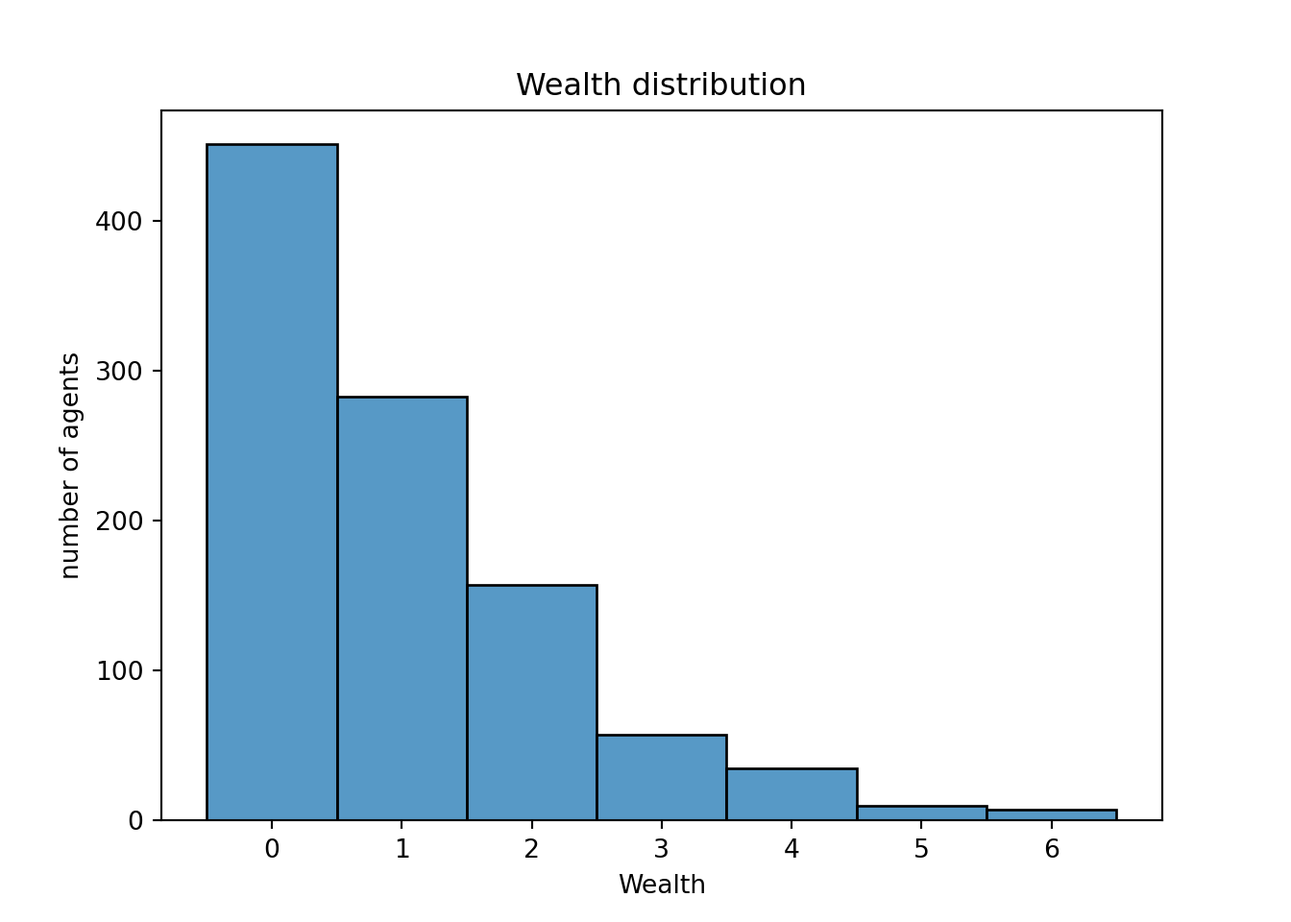
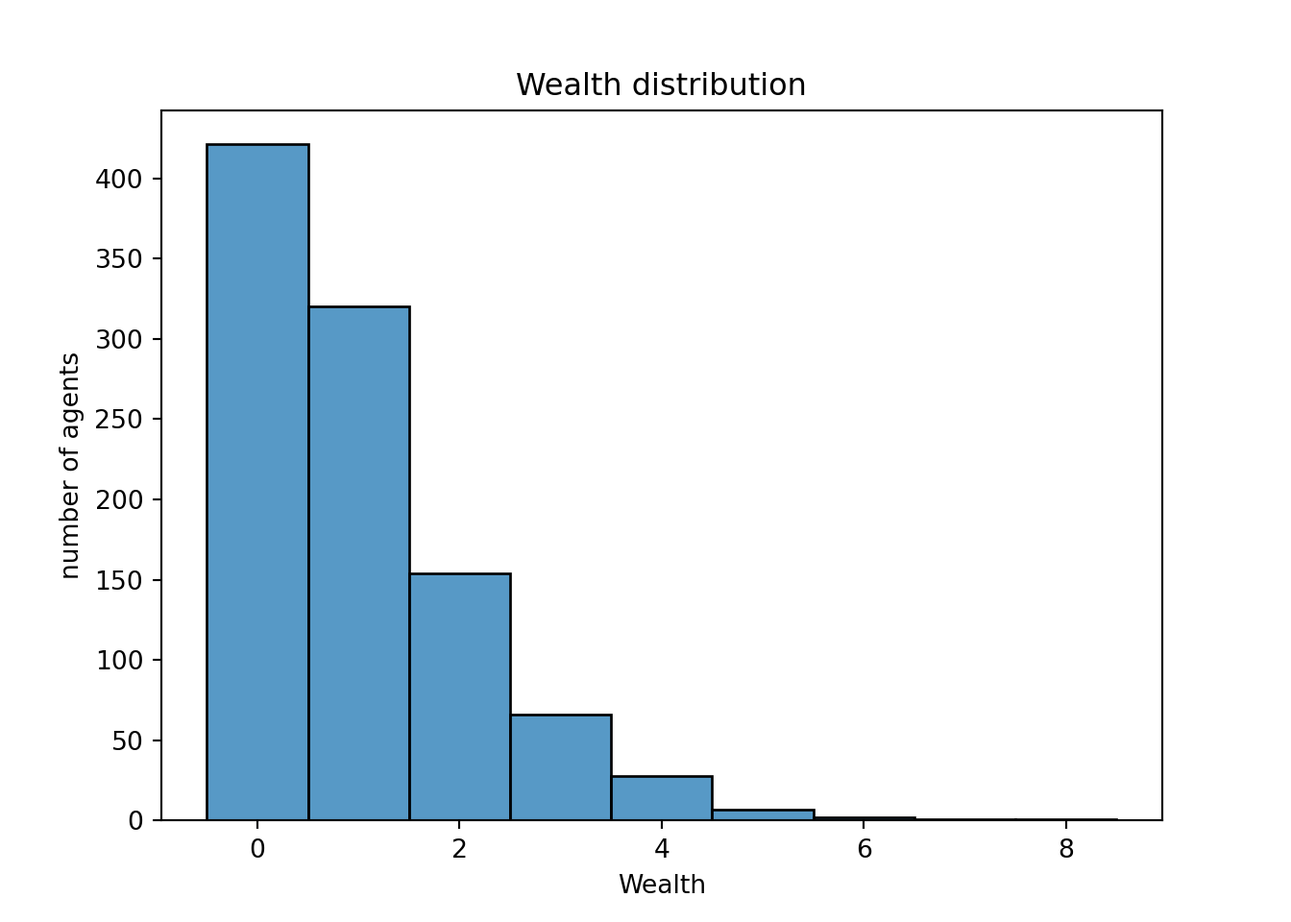
update

diff --git a/docs/index.html b/docs/index.html
@@ -195,8 +195,9 @@ pre > code.sourceCode > span > a:first-child::before { text-decoration: underlin
   <li><a href="#通过-agentset-管理-agents" id="toc-通过-agentset-管理-agents" class="nav-link" data-scroll-target="#通过-agentset-管理-agents"><span class="header-section-number">6</span> 通过 AgentSet 管理 Agents</a>
   <ul>
   <li><a href="#选择" id="toc-选择" class="nav-link" data-scroll-target="#选择"><span class="header-section-number">6.1</span> 选择</a></li>
-  <li><a href="#运行模型-3" id="toc-运行模型-3" class="nav-link" data-scroll-target="#运行模型-3"><span class="header-section-number">6.2</span> 运行模型</a></li>
+  <li><a href="#分组" id="toc-分组" class="nav-link" data-scroll-target="#分组"><span class="header-section-number">6.2</span> 分组</a></li>
   </ul></li>
+  <li><a href="#可视化-2" id="toc-可视化-2" class="nav-link" data-scroll-target="#可视化-2"><span class="header-section-number">7</span> 可视化</a></li>
   </ul>
 </nav>
 </nav>
@@ -361,15 +362,15 @@ pre > code.sourceCode > span > a:first-child::before { text-decoration: underlin
 <span id="cb7-6"><a href="#cb7-6" aria-hidden="true" tabindex="-1"></a>starter_model.step()</span></code><button title="Copy to Clipboard" class="code-copy-button"><i class="bi"></i></button></pre></div>
 <div class="cell-output cell-output-stdout">
 <pre><code>Hi, I am an agent, you can call me 2.
-Hi, I am an agent, you can call me 1.
 Hi, I am an agent, you can call me 4.
 Hi, I am an agent, you can call me 10.
 Hi, I am an agent, you can call me 8.
-Hi, I am an agent, you can call me 7.
-Hi, I am an agent, you can call me 6.
 Hi, I am an agent, you can call me 5.
-Hi, I am an agent, you can call me 3.
-Hi, I am an agent, you can call me 9.</code></pre>
+Hi, I am an agent, you can call me 7.
+Hi, I am an agent, you can call me 1.
+Hi, I am an agent, you can call me 6.
+Hi, I am an agent, you can call me 9.
+Hi, I am an agent, you can call me 3.</code></pre>
 </div>
 </div>
 <p>如果在创建对象时传入了 <code>seed</code> 参数，则每次运行模型时 <code>Agent</code> 的顺序会保持一致。</p>
@@ -424,16 +425,16 @@ Hi, I am an agent, you can call me 8.</code></pre>
 <span id="cb11-28"><a href="#cb11-28" aria-hidden="true" tabindex="-1"></a>starter_model <span class="op">=</span> MoneyModel(<span class="dv">10</span>)</span>
 <span id="cb11-29"><a href="#cb11-29" aria-hidden="true" tabindex="-1"></a>starter_model.step()</span></code><button title="Copy to Clipboard" class="code-copy-button"><i class="bi"></i></button></pre></div>
 <div class="cell-output cell-output-stdout">
-<pre><code>Hi, I am an agent 8,and I have 1 dollars.
-Hi, I am an agent 4,and I have 1 dollars.
-Hi, I am an agent 7,and I have 1 dollars.
-Hi, I am an agent 1,and I have 1 dollars.
+<pre><code>Hi, I am an agent 3,and I have 1 dollars.
 Hi, I am an agent 2,and I have 1 dollars.
-Hi, I am an agent 6,and I have 1 dollars.
-Hi, I am an agent 5,and I have 1 dollars.
-Hi, I am an agent 3,and I have 1 dollars.
+Hi, I am an agent 4,and I have 1 dollars.
+Hi, I am an agent 9,and I have 1 dollars.
 Hi, I am an agent 10,and I have 1 dollars.
-Hi, I am an agent 9,and I have 1 dollars.</code></pre>
+Hi, I am an agent 7,and I have 1 dollars.
+Hi, I am an agent 8,and I have 1 dollars.
+Hi, I am an agent 5,and I have 1 dollars.
+Hi, I am an agent 6,and I have 1 dollars.
+Hi, I am an agent 1,and I have 1 dollars.</code></pre>
 </div>
 </div>
 </section>
@@ -1219,17 +1220,21 @@ Step AgentID
 </div>
 </div>
 <div class="cell language-marker" data-display-language="true">
-<div class="sourceCode cell-code" id="cb44"><pre class="sourceCode r code-with-copy"><code class="sourceCode r"><span id="cb44-1"><a href="#cb44-1" aria-hidden="true" tabindex="-1"></a><span class="co"># 这里有一点麻烦的是，numpy会建立一种多重索引的数据结构</span></span>
-<span id="cb44-2"><a href="#cb44-2" aria-hidden="true" tabindex="-1"></a><span class="co"># 转化为 R tibble 时会丢掉所有索引</span></span>
-<span id="cb44-3"><a href="#cb44-3" aria-hidden="true" tabindex="-1"></a><span class="co"># 但直接在 R 中 call </span></span>
-<span id="cb44-4"><a href="#cb44-4" aria-hidden="true" tabindex="-1"></a><span class="co"># py$model$datacollector$get_agent_vars_dataframe()$reset_index()</span></span>
-<span id="cb44-5"><a href="#cb44-5" aria-hidden="true" tabindex="-1"></a><span class="co"># 会出现问题，因此要不在上面的 python 环境中先转换索引</span></span>
-<span id="cb44-6"><a href="#cb44-6" aria-hidden="true" tabindex="-1"></a><span class="co"># 或者如下操作</span></span>
-<span id="cb44-7"><a href="#cb44-7" aria-hidden="true" tabindex="-1"></a>agent_wealth <span class="ot">&lt;-</span> <span class="fu">py_eval</span>(</span>
-<span id="cb44-8"><a href="#cb44-8" aria-hidden="true" tabindex="-1"></a>  <span class="st">"model.datacollector.get_agent_vars_dataframe().reset_index()"</span></span>
-<span id="cb44-9"><a href="#cb44-9" aria-hidden="true" tabindex="-1"></a>)</span>
-<span id="cb44-10"><a href="#cb44-10" aria-hidden="true" tabindex="-1"></a></span>
-<span id="cb44-11"><a href="#cb44-11" aria-hidden="true" tabindex="-1"></a><span class="fu">head</span>(agent_wealth)</span></code><button title="Copy to Clipboard" class="code-copy-button"><i class="bi"></i></button></pre></div>
+<div class="sourceCode cell-code" id="cb44"><pre class="sourceCode r code-with-copy"><code class="sourceCode r"><span id="cb44-1"><a href="#cb44-1" aria-hidden="true" tabindex="-1"></a>model <span class="ot">=</span> py<span class="sc">$</span><span class="fu">MoneyModel</span>(<span class="dv">100</span>L, <span class="dv">10</span>L, <span class="dv">10</span>L, <span class="dv">1234</span>L)</span>
+<span id="cb44-2"><a href="#cb44-2" aria-hidden="true" tabindex="-1"></a><span class="fu">walk</span>(<span class="dv">1</span><span class="sc">:</span><span class="dv">100</span>L, <span class="sc">~</span>model<span class="sc">$</span><span class="fu">step</span>())</span>
+<span id="cb44-3"><a href="#cb44-3" aria-hidden="true" tabindex="-1"></a></span>
+<span id="cb44-4"><a href="#cb44-4" aria-hidden="true" tabindex="-1"></a><span class="co"># 这里有一点麻烦的是，numpy会建立一种多重索引的数据结构</span></span>
+<span id="cb44-5"><a href="#cb44-5" aria-hidden="true" tabindex="-1"></a><span class="co"># 转化为 R tibble 时会丢掉所有索引</span></span>
+<span id="cb44-6"><a href="#cb44-6" aria-hidden="true" tabindex="-1"></a><span class="co"># 但直接在 R 中 call </span></span>
+<span id="cb44-7"><a href="#cb44-7" aria-hidden="true" tabindex="-1"></a><span class="co"># py$model$datacollector$get_agent_vars_dataframe()$reset_index()</span></span>
+<span id="cb44-8"><a href="#cb44-8" aria-hidden="true" tabindex="-1"></a><span class="co"># 会出现问题，因此在 R 中进行了一次转换，!!!目前 reticulate 还没有提供更好的解决方法</span></span>
+<span id="cb44-9"><a href="#cb44-9" aria-hidden="true" tabindex="-1"></a>agent_wealth <span class="ot">&lt;-</span> model<span class="sc">$</span>datacollector<span class="sc">$</span><span class="fu">get_agent_vars_dataframe</span>() <span class="sc">%&gt;%</span> </span>
+<span id="cb44-10"><a href="#cb44-10" aria-hidden="true" tabindex="-1"></a>  <span class="fu">bind_cols</span>(</span>
+<span id="cb44-11"><a href="#cb44-11" aria-hidden="true" tabindex="-1"></a>  <span class="fu">attributes</span>(.)<span class="sc">$</span>pandas.index<span class="sc">$</span><span class="fu">to_frame</span>() <span class="sc">%&gt;%</span> <span class="fu">py_to_r</span>(),</span>
+<span id="cb44-12"><a href="#cb44-12" aria-hidden="true" tabindex="-1"></a>  .</span>
+<span id="cb44-13"><a href="#cb44-13" aria-hidden="true" tabindex="-1"></a>)</span>
+<span id="cb44-14"><a href="#cb44-14" aria-hidden="true" tabindex="-1"></a></span>
+<span id="cb44-15"><a href="#cb44-15" aria-hidden="true" tabindex="-1"></a><span class="fu">head</span>(agent_wealth)</span></code><button title="Copy to Clipboard" class="code-copy-button"><i class="bi"></i></button></pre></div>
 <div class="cell-output cell-output-stdout">
 <pre><code>  Step AgentID Wealth
 1    1       1      1
@@ -1239,19 +1244,17 @@ Step AgentID
 5    1       5      1
 6    1       6      1</code></pre>
 </div>
-<div class="sourceCode cell-code" id="cb46"><pre class="sourceCode r code-with-copy"><code class="sourceCode r"><span id="cb46-1"><a href="#cb46-1" aria-hidden="true" tabindex="-1"></a>last_step <span class="ot">=</span> agent_wealth<span class="sc">$</span>Step <span class="sc">%&gt;%</span> <span class="fu">max</span>()</span>
-<span id="cb46-2"><a href="#cb46-2" aria-hidden="true" tabindex="-1"></a>end_wealth <span class="ot">=</span> agent_wealth <span class="sc">%&gt;%</span> </span>
-<span id="cb46-3"><a href="#cb46-3" aria-hidden="true" tabindex="-1"></a>  <span class="fu">filter</span>(Step <span class="sc">==</span> last_step) <span class="sc">%&gt;%</span> </span>
-<span id="cb46-4"><a href="#cb46-4" aria-hidden="true" tabindex="-1"></a>  <span class="fu">select</span>(Wealth)</span>
-<span id="cb46-5"><a href="#cb46-5" aria-hidden="true" tabindex="-1"></a></span>
-<span id="cb46-6"><a href="#cb46-6" aria-hidden="true" tabindex="-1"></a><span class="fu">ggplot</span>()<span class="sc">+</span></span>
-<span id="cb46-7"><a href="#cb46-7" aria-hidden="true" tabindex="-1"></a>  <span class="fu">geom_histogram</span>(<span class="at">data =</span> end_wealth, <span class="fu">aes</span>(Wealth), </span>
-<span id="cb46-8"><a href="#cb46-8" aria-hidden="true" tabindex="-1"></a>               <span class="at">binwidth =</span> <span class="dv">1</span>, </span>
-<span id="cb46-9"><a href="#cb46-9" aria-hidden="true" tabindex="-1"></a>               <span class="at">color =</span> <span class="st">"black"</span>, <span class="at">fill=</span><span class="st">"steelblue"</span>)<span class="sc">+</span></span>
-<span id="cb46-10"><a href="#cb46-10" aria-hidden="true" tabindex="-1"></a>  <span class="fu">ggtitle</span>(<span class="st">"Distribution of wealth at the end of simulation"</span>)<span class="sc">+</span></span>
-<span id="cb46-11"><a href="#cb46-11" aria-hidden="true" tabindex="-1"></a>  <span class="fu">xlab</span>(<span class="st">"Wealth"</span>)<span class="sc">+</span></span>
-<span id="cb46-12"><a href="#cb46-12" aria-hidden="true" tabindex="-1"></a>  <span class="fu">ylab</span>(<span class="st">"Number of agents"</span>)<span class="sc">+</span></span>
-<span id="cb46-13"><a href="#cb46-13" aria-hidden="true" tabindex="-1"></a>  <span class="fu">theme_bw</span>()</span></code><button title="Copy to Clipboard" class="code-copy-button"><i class="bi"></i></button></pre></div>
+<div class="sourceCode cell-code" id="cb46"><pre class="sourceCode r code-with-copy"><code class="sourceCode r"><span id="cb46-1"><a href="#cb46-1" aria-hidden="true" tabindex="-1"></a>end_wealth <span class="ot">=</span> agent_wealth <span class="sc">%&gt;%</span> </span>
+<span id="cb46-2"><a href="#cb46-2" aria-hidden="true" tabindex="-1"></a>  <span class="fu">filter</span>(Step <span class="sc">==</span> <span class="fu">max</span>(Step))</span>
+<span id="cb46-3"><a href="#cb46-3" aria-hidden="true" tabindex="-1"></a></span>
+<span id="cb46-4"><a href="#cb46-4" aria-hidden="true" tabindex="-1"></a><span class="fu">ggplot</span>()<span class="sc">+</span></span>
+<span id="cb46-5"><a href="#cb46-5" aria-hidden="true" tabindex="-1"></a>  <span class="fu">geom_histogram</span>(<span class="at">data =</span> end_wealth, <span class="fu">aes</span>(Wealth), </span>
+<span id="cb46-6"><a href="#cb46-6" aria-hidden="true" tabindex="-1"></a>               <span class="at">binwidth =</span> <span class="dv">1</span>, </span>
+<span id="cb46-7"><a href="#cb46-7" aria-hidden="true" tabindex="-1"></a>               <span class="at">color =</span> <span class="st">"black"</span>, <span class="at">fill=</span><span class="st">"steelblue"</span>)<span class="sc">+</span></span>
+<span id="cb46-8"><a href="#cb46-8" aria-hidden="true" tabindex="-1"></a>  <span class="fu">ggtitle</span>(<span class="st">"Distribution of wealth at the end of simulation"</span>)<span class="sc">+</span></span>
+<span id="cb46-9"><a href="#cb46-9" aria-hidden="true" tabindex="-1"></a>  <span class="fu">xlab</span>(<span class="st">"Wealth"</span>)<span class="sc">+</span></span>
+<span id="cb46-10"><a href="#cb46-10" aria-hidden="true" tabindex="-1"></a>  <span class="fu">ylab</span>(<span class="st">"Number of agents"</span>)<span class="sc">+</span></span>
+<span id="cb46-11"><a href="#cb46-11" aria-hidden="true" tabindex="-1"></a>  <span class="fu">theme_bw</span>()</span></code><button title="Copy to Clipboard" class="code-copy-button"><i class="bi"></i></button></pre></div>
 <div class="cell-output-display">
 <div>
 <figure class="figure">
@@ -1399,23 +1402,24 @@ Step AgentID
 <span id="cb51-50"><a href="#cb51-50" aria-hidden="true" tabindex="-1"></a>        <span class="cf">else</span>:</span>
 <span id="cb51-51"><a href="#cb51-51" aria-hidden="true" tabindex="-1"></a>            poor_agents.shuffle_do(<span class="st">"give_money"</span>, poor_agents)</span></code><button title="Copy to Clipboard" class="code-copy-button"><i class="bi"></i></button></pre></div>
 </div>
-</section>
-<section id="运行模型-3" class="level2" data-number="6.2">
-<h2 data-number="6.2" class="anchored" data-anchor-id="运行模型-3"><span class="header-section-number">6.2</span> 运行模型</h2>
 <div class="cell language-marker" data-display-language="true">
 <div class="sourceCode cell-code" id="cb52"><pre class="sourceCode r code-with-copy"><code class="sourceCode r"><span id="cb52-1"><a href="#cb52-1" aria-hidden="true" tabindex="-1"></a>model <span class="ot">=</span> py<span class="sc">$</span><span class="fu">MoneyModel</span>(<span class="dv">100</span>L)</span>
 <span id="cb52-2"><a href="#cb52-2" aria-hidden="true" tabindex="-1"></a><span class="fu">walk</span>(<span class="dv">1</span><span class="sc">:</span><span class="dv">20</span>L, <span class="sc">~</span>model<span class="sc">$</span><span class="fu">step</span>())</span>
 <span id="cb52-3"><a href="#cb52-3" aria-hidden="true" tabindex="-1"></a></span>
-<span id="cb52-4"><a href="#cb52-4" aria-hidden="true" tabindex="-1"></a>agent_wealth <span class="ot">=</span> <span class="fu">py_eval</span>(<span class="st">"model.datacollector.get_agent_vars_dataframe().reset_index()"</span>)</span>
-<span id="cb52-5"><a href="#cb52-5" aria-hidden="true" tabindex="-1"></a></span>
-<span id="cb52-6"><a href="#cb52-6" aria-hidden="true" tabindex="-1"></a>agent_wealth  <span class="sc">%&gt;%</span></span>
-<span id="cb52-7"><a href="#cb52-7" aria-hidden="true" tabindex="-1"></a>  <span class="fu">ggplot</span>() <span class="sc">+</span></span>
-<span id="cb52-8"><a href="#cb52-8" aria-hidden="true" tabindex="-1"></a>  <span class="fu">geom_histogram</span>(<span class="fu">aes</span>(Wealth), <span class="at">fill =</span> <span class="st">"steelblue"</span>,<span class="at">binwidth =</span> <span class="dv">1</span>, <span class="at">color =</span> <span class="st">"black"</span>) <span class="sc">+</span></span>
-<span id="cb52-9"><a href="#cb52-9" aria-hidden="true" tabindex="-1"></a>  <span class="fu">labs</span>(</span>
-<span id="cb52-10"><a href="#cb52-10" aria-hidden="true" tabindex="-1"></a>    <span class="at">title =</span> <span class="st">"Wealth distribution"</span>,</span>
-<span id="cb52-11"><a href="#cb52-11" aria-hidden="true" tabindex="-1"></a>    <span class="at">x     =</span> <span class="st">"Wealth"</span>,</span>
-<span id="cb52-12"><a href="#cb52-12" aria-hidden="true" tabindex="-1"></a>    <span class="at">y     =</span> <span class="st">"Number of agents"</span></span>
-<span id="cb52-13"><a href="#cb52-13" aria-hidden="true" tabindex="-1"></a>  ) <span class="sc">+</span> <span class="fu">theme_bw</span>()</span></code><button title="Copy to Clipboard" class="code-copy-button"><i class="bi"></i></button></pre></div>
+<span id="cb52-4"><a href="#cb52-4" aria-hidden="true" tabindex="-1"></a>agent_wealth <span class="ot">&lt;-</span> model<span class="sc">$</span>datacollector<span class="sc">$</span><span class="fu">get_agent_vars_dataframe</span>() <span class="sc">%&gt;%</span> </span>
+<span id="cb52-5"><a href="#cb52-5" aria-hidden="true" tabindex="-1"></a>  <span class="fu">bind_cols</span>(</span>
+<span id="cb52-6"><a href="#cb52-6" aria-hidden="true" tabindex="-1"></a>  <span class="fu">attributes</span>(.)<span class="sc">$</span>pandas.index<span class="sc">$</span><span class="fu">to_frame</span>() <span class="sc">%&gt;%</span> <span class="fu">py_to_r</span>(),</span>
+<span id="cb52-7"><a href="#cb52-7" aria-hidden="true" tabindex="-1"></a>  .</span>
+<span id="cb52-8"><a href="#cb52-8" aria-hidden="true" tabindex="-1"></a>)</span>
+<span id="cb52-9"><a href="#cb52-9" aria-hidden="true" tabindex="-1"></a></span>
+<span id="cb52-10"><a href="#cb52-10" aria-hidden="true" tabindex="-1"></a>agent_wealth  <span class="sc">%&gt;%</span></span>
+<span id="cb52-11"><a href="#cb52-11" aria-hidden="true" tabindex="-1"></a>  <span class="fu">ggplot</span>() <span class="sc">+</span></span>
+<span id="cb52-12"><a href="#cb52-12" aria-hidden="true" tabindex="-1"></a>  <span class="fu">geom_histogram</span>(<span class="fu">aes</span>(Wealth), <span class="at">fill =</span> <span class="st">"steelblue"</span>,<span class="at">binwidth =</span> <span class="dv">1</span>, <span class="at">color =</span> <span class="st">"black"</span>) <span class="sc">+</span></span>
+<span id="cb52-13"><a href="#cb52-13" aria-hidden="true" tabindex="-1"></a>  <span class="fu">labs</span>(</span>
+<span id="cb52-14"><a href="#cb52-14" aria-hidden="true" tabindex="-1"></a>    <span class="at">title =</span> <span class="st">"Wealth distribution"</span>,</span>
+<span id="cb52-15"><a href="#cb52-15" aria-hidden="true" tabindex="-1"></a>    <span class="at">x     =</span> <span class="st">"Wealth"</span>,</span>
+<span id="cb52-16"><a href="#cb52-16" aria-hidden="true" tabindex="-1"></a>    <span class="at">y     =</span> <span class="st">"Number of agents"</span></span>
+<span id="cb52-17"><a href="#cb52-17" aria-hidden="true" tabindex="-1"></a>  ) <span class="sc">+</span> <span class="fu">theme_bw</span>()</span></code><button title="Copy to Clipboard" class="code-copy-button"><i class="bi"></i></button></pre></div>
 <div class="cell-output-display">
 <div>
 <figure class="figure">
@@ -1424,9 +1428,101 @@ Step AgentID
 </div>
 </div>
 </div>
-
-
 </section>
+<section id="分组" class="level2" data-number="6.2">
+<h2 data-number="6.2" class="anchored" data-anchor-id="分组"><span class="header-section-number">6.2</span> 分组</h2>
+<p>通过一个 characteristics 将 <code>Agent</code> 分组, 例如提供 <code>Green</code>、<code>Blue</code> 和 <code>Mixed</code> 的种族属性，只在同种族内给钱。</p>
+<div class="cell language-marker" data-display-language="true">
+<div class="sourceCode cell-code" id="cb53"><pre class="sourceCode python code-with-copy"><code class="sourceCode python"><span id="cb53-1"><a href="#cb53-1" aria-hidden="true" tabindex="-1"></a><span class="kw">def</span> compute_gini(model):</span>
+<span id="cb53-2"><a href="#cb53-2" aria-hidden="true" tabindex="-1"></a>    agent_wealths <span class="op">=</span> [agent.wealth <span class="cf">for</span> agent <span class="kw">in</span> model.agents]</span>
+<span id="cb53-3"><a href="#cb53-3" aria-hidden="true" tabindex="-1"></a>    x <span class="op">=</span> <span class="bu">sorted</span>(agent_wealths)</span>
+<span id="cb53-4"><a href="#cb53-4" aria-hidden="true" tabindex="-1"></a>    n <span class="op">=</span> model.num_agents</span>
+<span id="cb53-5"><a href="#cb53-5" aria-hidden="true" tabindex="-1"></a>    B <span class="op">=</span> <span class="bu">sum</span>(xi <span class="op">*</span> (n <span class="op">-</span> i) <span class="cf">for</span> i, xi <span class="kw">in</span> <span class="bu">enumerate</span>(x)) <span class="op">/</span> (n <span class="op">*</span> <span class="bu">sum</span>(x))</span>
+<span id="cb53-6"><a href="#cb53-6" aria-hidden="true" tabindex="-1"></a>    <span class="cf">return</span> <span class="dv">1</span> <span class="op">+</span> (<span class="dv">1</span> <span class="op">/</span> n) <span class="op">-</span> <span class="dv">2</span> <span class="op">*</span> B</span>
+<span id="cb53-7"><a href="#cb53-7" aria-hidden="true" tabindex="-1"></a>  </span>
+<span id="cb53-8"><a href="#cb53-8" aria-hidden="true" tabindex="-1"></a><span class="kw">class</span> MoneyAgent(mesa.Agent):</span>
+<span id="cb53-9"><a href="#cb53-9" aria-hidden="true" tabindex="-1"></a>    <span class="co">"""An agent with fixed initial wealth."""</span></span>
+<span id="cb53-10"><a href="#cb53-10" aria-hidden="true" tabindex="-1"></a></span>
+<span id="cb53-11"><a href="#cb53-11" aria-hidden="true" tabindex="-1"></a>    <span class="kw">def</span> <span class="fu">__init__</span>(<span class="va">self</span>, model, ethnicity):</span>
+<span id="cb53-12"><a href="#cb53-12" aria-hidden="true" tabindex="-1"></a>        <span class="bu">super</span>().<span class="fu">__init__</span>(model)</span>
+<span id="cb53-13"><a href="#cb53-13" aria-hidden="true" tabindex="-1"></a>        <span class="va">self</span>.wealth <span class="op">=</span> <span class="dv">1</span></span>
+<span id="cb53-14"><a href="#cb53-14" aria-hidden="true" tabindex="-1"></a>        <span class="co"># 定义 Agent 的种族</span></span>
+<span id="cb53-15"><a href="#cb53-15" aria-hidden="true" tabindex="-1"></a>        <span class="va">self</span>.ethnicity <span class="op">=</span> ethnicity</span>
+<span id="cb53-16"><a href="#cb53-16" aria-hidden="true" tabindex="-1"></a></span>
+<span id="cb53-17"><a href="#cb53-17" aria-hidden="true" tabindex="-1"></a>    <span class="kw">def</span> give_money(<span class="va">self</span>, similars):</span>
+<span id="cb53-18"><a href="#cb53-18" aria-hidden="true" tabindex="-1"></a>        <span class="cf">if</span> <span class="va">self</span>.wealth <span class="op">&gt;</span> <span class="dv">0</span>:</span>
+<span id="cb53-19"><a href="#cb53-19" aria-hidden="true" tabindex="-1"></a>            <span class="co"># 从同种族的 Agent 中随机选择一个</span></span>
+<span id="cb53-20"><a href="#cb53-20" aria-hidden="true" tabindex="-1"></a>            other_agent <span class="op">=</span> <span class="va">self</span>.random.choice(similars)</span>
+<span id="cb53-21"><a href="#cb53-21" aria-hidden="true" tabindex="-1"></a>            other_agent.wealth <span class="op">+=</span> <span class="dv">1</span></span>
+<span id="cb53-22"><a href="#cb53-22" aria-hidden="true" tabindex="-1"></a>            <span class="va">self</span>.wealth <span class="op">-=</span> <span class="dv">1</span></span>
+<span id="cb53-23"><a href="#cb53-23" aria-hidden="true" tabindex="-1"></a></span>
+<span id="cb53-24"><a href="#cb53-24" aria-hidden="true" tabindex="-1"></a></span>
+<span id="cb53-25"><a href="#cb53-25" aria-hidden="true" tabindex="-1"></a><span class="kw">class</span> MoneyModel(mesa.Model):</span>
+<span id="cb53-26"><a href="#cb53-26" aria-hidden="true" tabindex="-1"></a>    <span class="co">"""A model with some number of agents."""</span></span>
+<span id="cb53-27"><a href="#cb53-27" aria-hidden="true" tabindex="-1"></a></span>
+<span id="cb53-28"><a href="#cb53-28" aria-hidden="true" tabindex="-1"></a>    <span class="kw">def</span> <span class="fu">__init__</span>(<span class="va">self</span>, n):</span>
+<span id="cb53-29"><a href="#cb53-29" aria-hidden="true" tabindex="-1"></a>        <span class="bu">super</span>().<span class="fu">__init__</span>()</span>
+<span id="cb53-30"><a href="#cb53-30" aria-hidden="true" tabindex="-1"></a>        <span class="va">self</span>.num_agents <span class="op">=</span> n</span>
+<span id="cb53-31"><a href="#cb53-31" aria-hidden="true" tabindex="-1"></a></span>
+<span id="cb53-32"><a href="#cb53-32" aria-hidden="true" tabindex="-1"></a>        <span class="co"># 创建一个种族列表</span></span>
+<span id="cb53-33"><a href="#cb53-33" aria-hidden="true" tabindex="-1"></a>        ethnicities <span class="op">=</span> [<span class="st">"Green"</span>, <span class="st">"Blue"</span>, <span class="st">"Mixed"</span>]</span>
+<span id="cb53-34"><a href="#cb53-34" aria-hidden="true" tabindex="-1"></a></span>
+<span id="cb53-35"><a href="#cb53-35" aria-hidden="true" tabindex="-1"></a>        MoneyAgent.create_agents(</span>
+<span id="cb53-36"><a href="#cb53-36" aria-hidden="true" tabindex="-1"></a>            model<span class="op">=</span><span class="va">self</span>,</span>
+<span id="cb53-37"><a href="#cb53-37" aria-hidden="true" tabindex="-1"></a>            n<span class="op">=</span><span class="va">self</span>.num_agents,</span>
+<span id="cb53-38"><a href="#cb53-38" aria-hidden="true" tabindex="-1"></a>            <span class="co"># 从种族列表中随机选择种族</span></span>
+<span id="cb53-39"><a href="#cb53-39" aria-hidden="true" tabindex="-1"></a>            ethnicity<span class="op">=</span><span class="va">self</span>.random.choices(ethnicities, k<span class="op">=</span><span class="va">self</span>.num_agents),</span>
+<span id="cb53-40"><a href="#cb53-40" aria-hidden="true" tabindex="-1"></a>        )</span>
+<span id="cb53-41"><a href="#cb53-41" aria-hidden="true" tabindex="-1"></a></span>
+<span id="cb53-42"><a href="#cb53-42" aria-hidden="true" tabindex="-1"></a>        <span class="va">self</span>.datacollector <span class="op">=</span> mesa.DataCollector(</span>
+<span id="cb53-43"><a href="#cb53-43" aria-hidden="true" tabindex="-1"></a>            model_reporters<span class="op">=</span>{<span class="st">"Gini"</span>: compute_gini},</span>
+<span id="cb53-44"><a href="#cb53-44" aria-hidden="true" tabindex="-1"></a>            agent_reporters<span class="op">=</span>{<span class="st">"Wealth"</span>: <span class="st">"wealth"</span>, <span class="st">"Ethnicity"</span>: <span class="st">"ethnicity"</span>},</span>
+<span id="cb53-45"><a href="#cb53-45" aria-hidden="true" tabindex="-1"></a>        )</span>
+<span id="cb53-46"><a href="#cb53-46" aria-hidden="true" tabindex="-1"></a></span>
+<span id="cb53-47"><a href="#cb53-47" aria-hidden="true" tabindex="-1"></a>    <span class="kw">def</span> step(<span class="va">self</span>):</span>
+<span id="cb53-48"><a href="#cb53-48" aria-hidden="true" tabindex="-1"></a>        <span class="va">self</span>.datacollector.collect(<span class="va">self</span>)</span>
+<span id="cb53-49"><a href="#cb53-49" aria-hidden="true" tabindex="-1"></a>        <span class="co"># 创建一个字典，存储 Agent 的种族</span></span>
+<span id="cb53-50"><a href="#cb53-50" aria-hidden="true" tabindex="-1"></a>        grouped_agents <span class="op">=</span> <span class="va">self</span>.agents.groupby(<span class="st">"ethnicity"</span>)</span>
+<span id="cb53-51"><a href="#cb53-51" aria-hidden="true" tabindex="-1"></a>        <span class="cf">for</span> ethnic, similars <span class="kw">in</span> grouped_agents:</span>
+<span id="cb53-52"><a href="#cb53-52" aria-hidden="true" tabindex="-1"></a>            <span class="cf">if</span> ethnic <span class="op">!=</span> <span class="st">"Mixed"</span>:</span>
+<span id="cb53-53"><a href="#cb53-53" aria-hidden="true" tabindex="-1"></a>                similars.shuffle_do(<span class="st">"give_money"</span>, similars)</span>
+<span id="cb53-54"><a href="#cb53-54" aria-hidden="true" tabindex="-1"></a>            <span class="cf">else</span>:</span>
+<span id="cb53-55"><a href="#cb53-55" aria-hidden="true" tabindex="-1"></a>                similars.shuffle_do(</span>
+<span id="cb53-56"><a href="#cb53-56" aria-hidden="true" tabindex="-1"></a>                    <span class="st">"give_money"</span>, <span class="va">self</span>.agents</span>
+<span id="cb53-57"><a href="#cb53-57" aria-hidden="true" tabindex="-1"></a>                )  <span class="co"># Mixed 可以给所有人钱</span></span></code><button title="Copy to Clipboard" class="code-copy-button"><i class="bi"></i></button></pre></div>
+</div>
+<div class="cell language-marker" data-display-language="true">
+<div class="sourceCode cell-code" id="cb54"><pre class="sourceCode r code-with-copy"><code class="sourceCode r"><span id="cb54-1"><a href="#cb54-1" aria-hidden="true" tabindex="-1"></a>model <span class="ot">=</span> py<span class="sc">$</span><span class="fu">MoneyModel</span>(<span class="dv">100</span>L)</span>
+<span id="cb54-2"><a href="#cb54-2" aria-hidden="true" tabindex="-1"></a><span class="fu">walk</span>(<span class="dv">1</span><span class="sc">:</span><span class="dv">20</span>L, <span class="sc">~</span>model<span class="sc">$</span><span class="fu">step</span>())</span>
+<span id="cb54-3"><a href="#cb54-3" aria-hidden="true" tabindex="-1"></a></span>
+<span id="cb54-4"><a href="#cb54-4" aria-hidden="true" tabindex="-1"></a>agent_wealth <span class="ot">&lt;-</span> model<span class="sc">$</span>datacollector<span class="sc">$</span><span class="fu">get_agent_vars_dataframe</span>() <span class="sc">%&gt;%</span> </span>
+<span id="cb54-5"><a href="#cb54-5" aria-hidden="true" tabindex="-1"></a>  <span class="fu">bind_cols</span>(</span>
+<span id="cb54-6"><a href="#cb54-6" aria-hidden="true" tabindex="-1"></a>  <span class="fu">attributes</span>(.)<span class="sc">$</span>pandas.index<span class="sc">$</span><span class="fu">to_frame</span>() <span class="sc">%&gt;%</span> <span class="fu">py_to_r</span>(),</span>
+<span id="cb54-7"><a href="#cb54-7" aria-hidden="true" tabindex="-1"></a>  .</span>
+<span id="cb54-8"><a href="#cb54-8" aria-hidden="true" tabindex="-1"></a>)</span>
+<span id="cb54-9"><a href="#cb54-9" aria-hidden="true" tabindex="-1"></a></span>
+<span id="cb54-10"><a href="#cb54-10" aria-hidden="true" tabindex="-1"></a>agent_wealth <span class="sc">%&gt;%</span> </span>
+<span id="cb54-11"><a href="#cb54-11" aria-hidden="true" tabindex="-1"></a>  <span class="fu">ggplot</span>()<span class="sc">+</span></span>
+<span id="cb54-12"><a href="#cb54-12" aria-hidden="true" tabindex="-1"></a>  <span class="fu">geom_histogram</span>(<span class="fu">aes</span>(Wealth, <span class="at">fill =</span> Ethnicity),<span class="at">binwidth =</span> <span class="dv">1</span>, <span class="at">color =</span> <span class="st">"black"</span>)<span class="sc">+</span></span>
+<span id="cb54-13"><a href="#cb54-13" aria-hidden="true" tabindex="-1"></a>  <span class="fu">theme_bw</span>()<span class="sc">+</span></span>
+<span id="cb54-14"><a href="#cb54-14" aria-hidden="true" tabindex="-1"></a>  <span class="fu">scale_fill_manual</span>(<span class="at">values =</span> <span class="fu">c</span>(<span class="st">"Green"</span> <span class="ot">=</span> <span class="st">"darkgreen"</span>, </span>
+<span id="cb54-15"><a href="#cb54-15" aria-hidden="true" tabindex="-1"></a>                               <span class="st">"Blue"</span> <span class="ot">=</span> <span class="st">"darkblue"</span>, </span>
+<span id="cb54-16"><a href="#cb54-16" aria-hidden="true" tabindex="-1"></a>                               <span class="st">"Mixed"</span> <span class="ot">=</span> <span class="st">"purple3"</span>)) <span class="sc">+</span></span>
+<span id="cb54-17"><a href="#cb54-17" aria-hidden="true" tabindex="-1"></a>  <span class="fu">labs</span>(<span class="at">title =</span> <span class="st">"Wealth distribution"</span>)</span></code><button title="Copy to Clipboard" class="code-copy-button"><i class="bi"></i></button></pre></div>
+<div class="cell-output-display">
+<div>
+<figure class="figure">
+<p><a href="index_files/figure-html/unnamed-chunk-42-1.png" class="lightbox" data-gallery="quarto-lightbox-gallery-25"><img src="index_files/figure-html/unnamed-chunk-42-1.png" class="img-fluid figure-img" width="672"></a></p>
+</figure>
+</div>
+</div>
+</div>
+</section>
+</section>
+<section id="可视化-2" class="level1" data-number="7">
+<h1 data-number="7"><span class="header-section-number">7</span> 可视化</h1>
+
+
 </section>
 
 </main> <!-- /main -->
